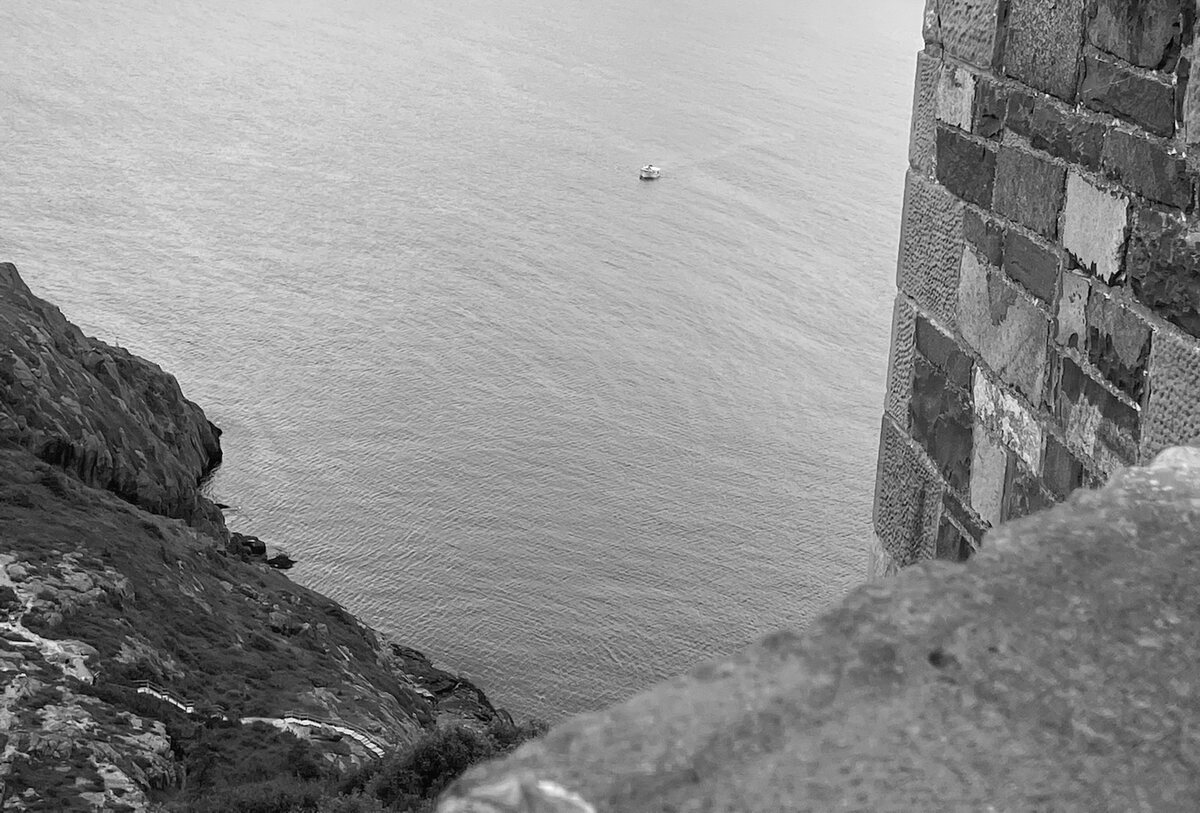
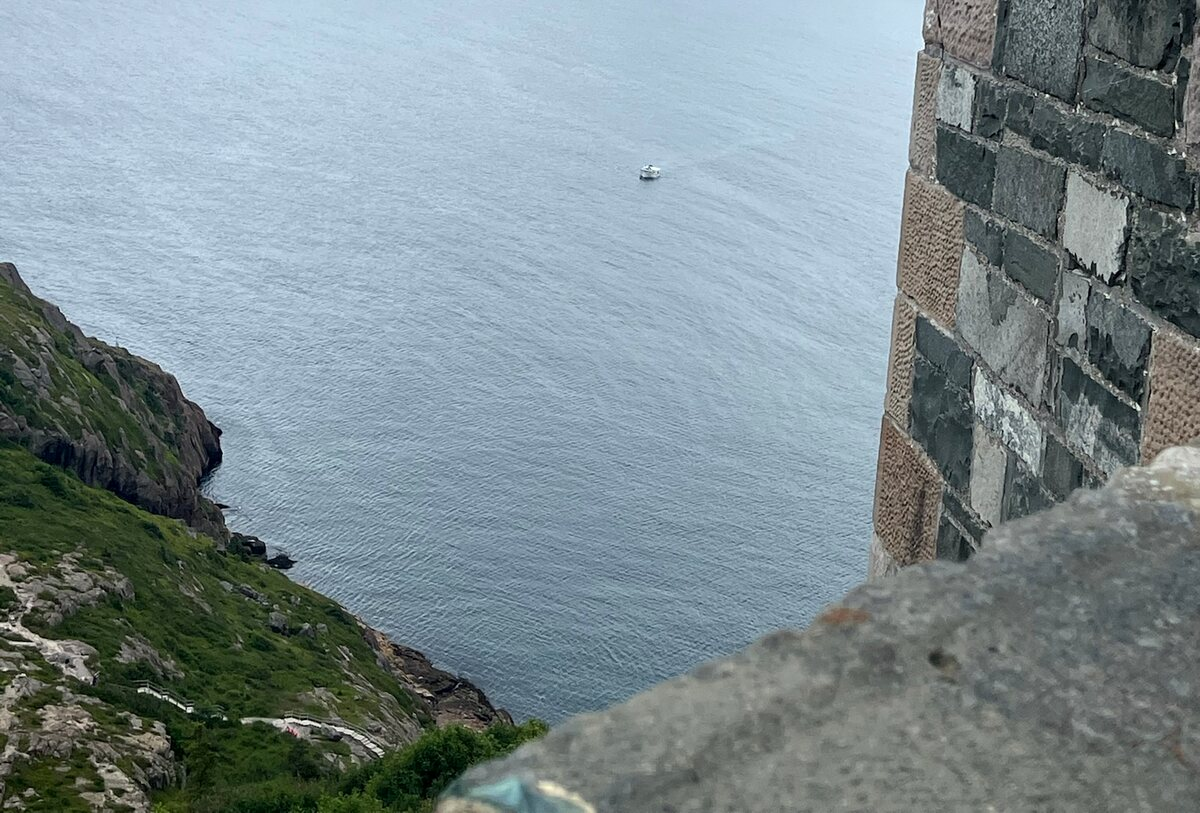
Photos in colour; swap the hero away from the family photo
Chris: "could we try with pics in not black and white" and "change the photo
with my mom and sister in it to one with no people." The old hero (a fog-hills
shot from New Found Land) had two family members in frame at distance; it is
replaced with the St John's harbour view from Signal Hill, no people, same
trip. Hero, og image, download panel and links tile are all colour now
instead of the desaturated treatment from design v2/v3.

diff --git a/index.html b/index.html
@@ -16,7 +16,7 @@
 <link rel="preconnect" href="https://fonts.googleapis.com">
 <link rel="preconnect" href="https://fonts.gstatic.com" crossorigin>
 <link href="https://fonts.googleapis.com/css2?family=Inter:wght@400;700&family=Space+Mono:wght@400&display=swap" rel="stylesheet">
-<link rel="stylesheet" href="/assets/style.css?v=27">
+<link rel="stylesheet" href="/assets/style.css?v=28">
 </head>
 <body>
 
@@ -46,7 +46,7 @@
 </nav>
 
 <header class="hero band" data-tone="paper">
-  <div class="hero__plate" role="img" aria-label="Fog over hills, Newfoundland"></div>
+  <div class="hero__plate" role="img" aria-label="St John's harbour from Signal Hill, Newfoundland"></div>
   <div class="hero__copy">
     <p class="eyebrow"><b>Toronto</b></p>
     <h1 class="display wordmark">finnian<span class="star">*<svg class="hero__ring" viewBox="0 0 200 200" aria-hidden="true"><use href="#ring"/></svg></span></h1>

diff --git a/assets/style.css b/assets/style.css
@@ -192,7 +192,7 @@ h2.display { font-size: clamp(2.75rem, 7vw, 5.5rem); }
 .hero__plate {
   position: relative;
   min-height: 62svh;
-  background: #cfcfd3 url("hero.jpg?v=5") center 60% / cover no-repeat;
+  background: #cfcfd3 url("hero.jpg?v=6") center 42% / cover no-repeat;
   border-right: 1px solid var(--black);
 }
 
@@ -357,7 +357,7 @@ h2.display { font-size: clamp(2.75rem, 7vw, 5.5rem); }
   position: relative;
   margin: 0 0 var(--s5);
   border: 1px solid var(--black);
-  background: #cfcfd3 url("tile.jpg?v=3") center / cover no-repeat;
+  background: #cfcfd3 url("tile.jpg?v=4") center / cover no-repeat;
   aspect-ratio: 4 / 3;
 }
 .links-page .avatar {

diff --git a/links/index.html b/links/index.html
@@ -14,7 +14,7 @@
 <link rel="preconnect" href="https://fonts.googleapis.com">
 <link rel="preconnect" href="https://fonts.gstatic.com" crossorigin>
 <link href="https://fonts.googleapis.com/css2?family=Inter:wght@400;700&family=Space+Mono:wght@400&display=swap" rel="stylesheet">
-<link rel="stylesheet" href="/assets/style.css?v=27">
+<link rel="stylesheet" href="/assets/style.css?v=28">
 </head>
 <body>
 
